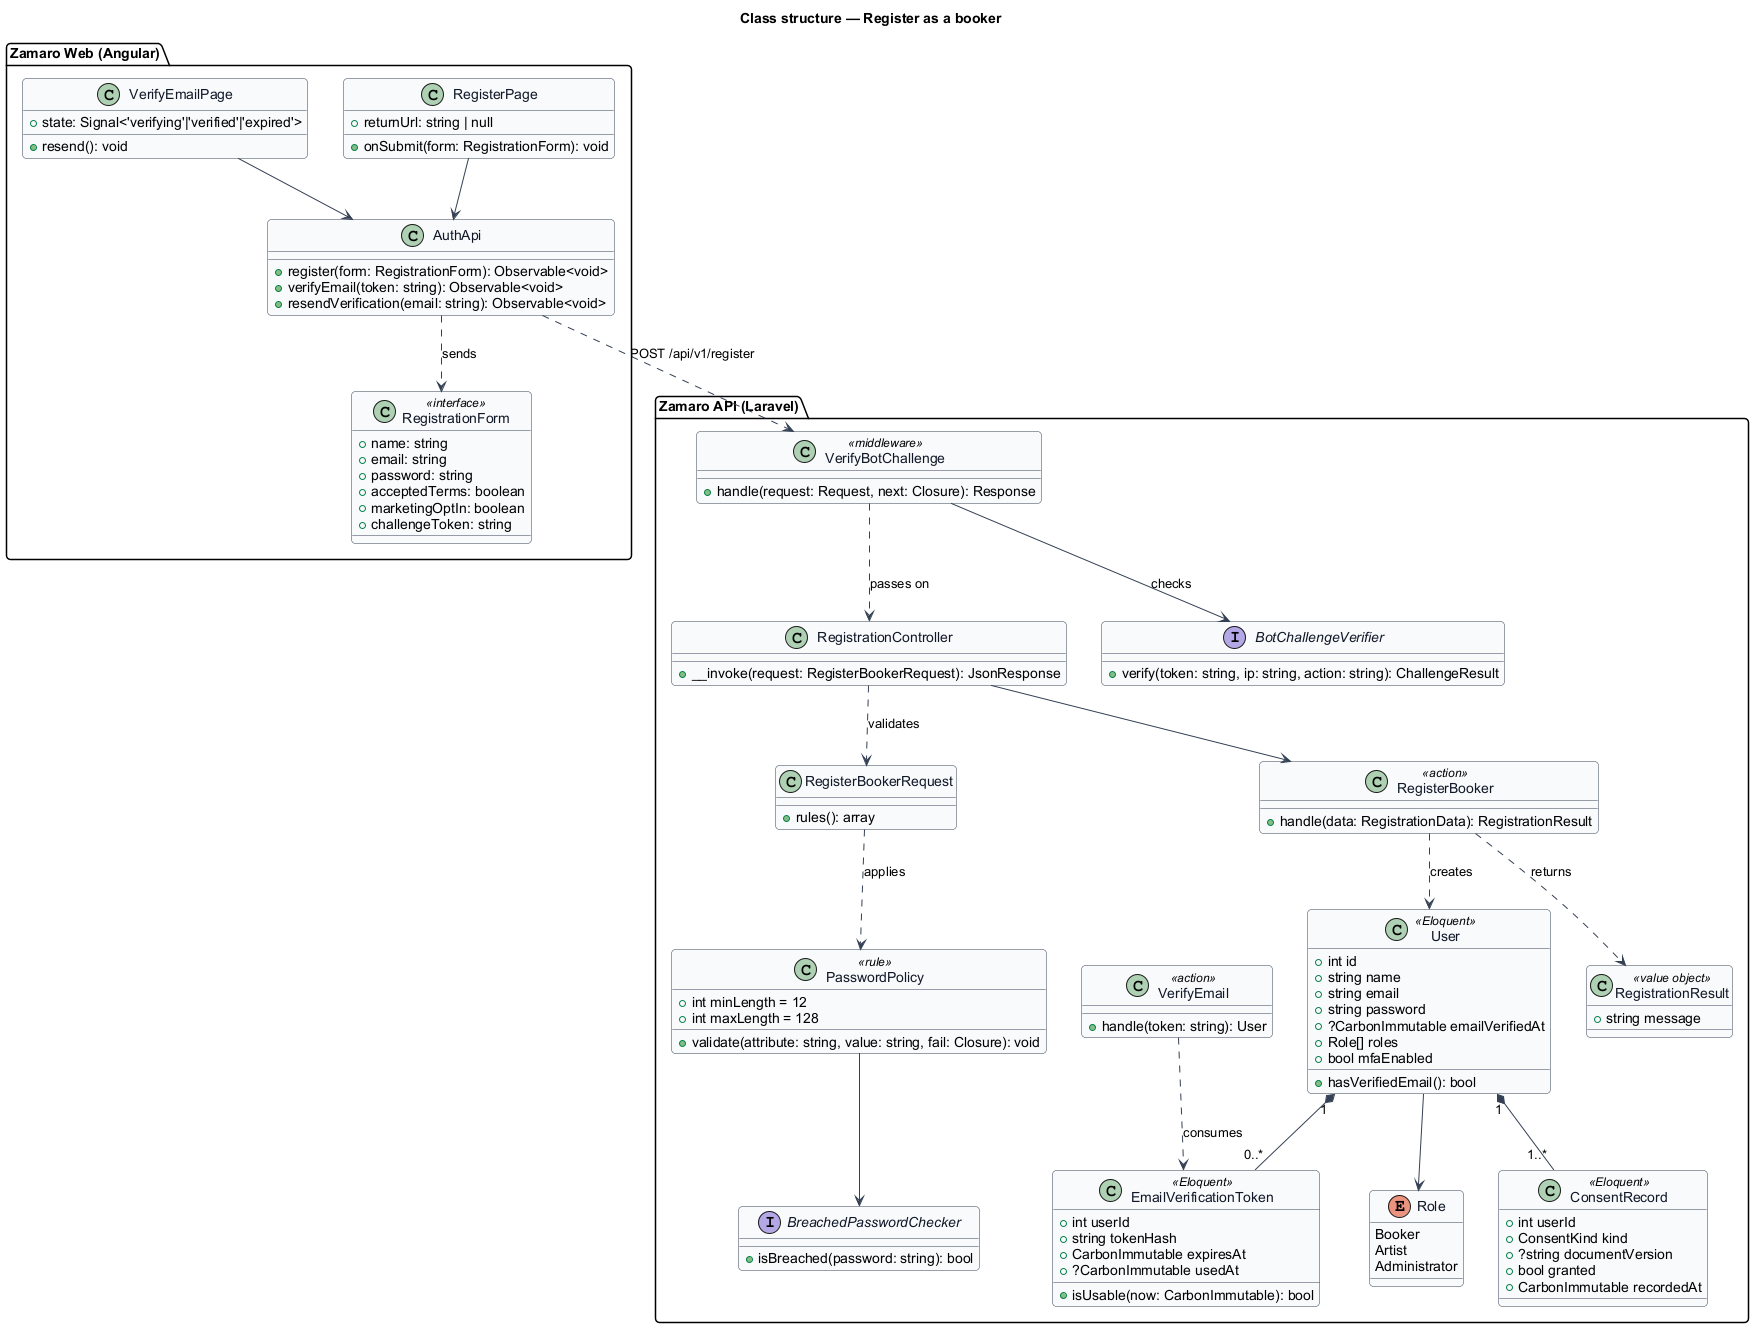
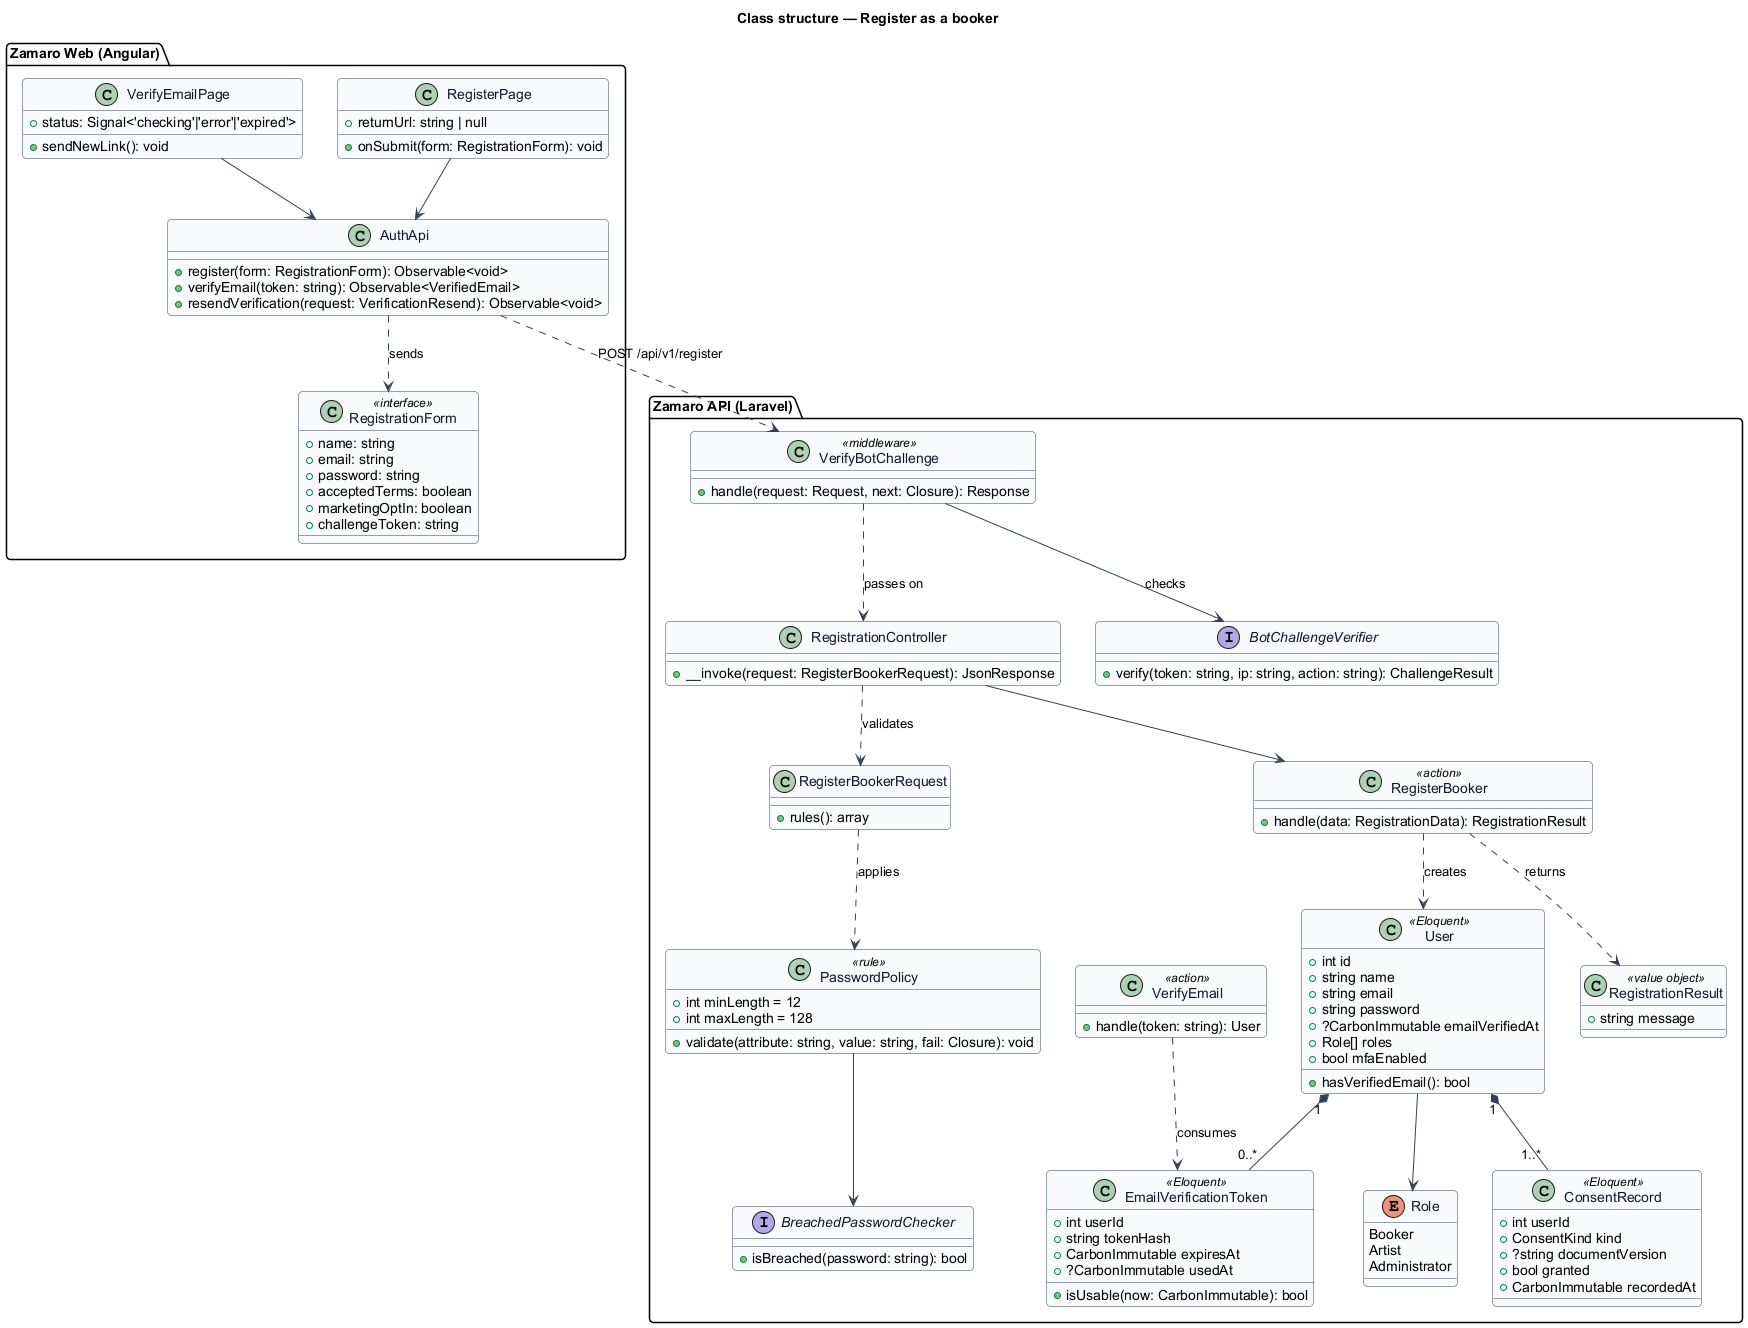
docs(accounts): S7 in the register-booker design, the alert, stamp and button CRDs and the M2 plan
- register-booker: "As built (M2 S7)": verify answers 200 with the name and signs no one
  in, one resend endpoint for three callers, revoked links kept as used, the banners.
- CRDs: zm-banner and zm-stamp built; the auth card's paper secondary buttons.
- AGENTS.md tree: pages/verify-email/.
- Plan: S7 Done with its criteria and changes, D6's resend limit.

diff --git a/docs/plans/m2-accounts-and-sessions.md b/docs/plans/m2-accounts-and-sessions.md
@@ -13,12 +13,43 @@
 | S4 | The request gate | Done | `c9d2d56` red tests, `1014b36` |
 | S5 | Register a booker, with consent | Done | `690da3b` red tests, `c6902ed` (ADR-0019) |
 | S6 | Email delivery rules and failed jobs | Done | `cd08f71` red tests, `dc02dc1` |
-| S7–S18 | | Not started | |
+| S7 | Verify the email address | Done | `fdc2b5b` red tests, `257d4c3` |
+| S8–S18 | | Not started | |
 
-**Checks at the last commit (S6, 2026-10-10):** 206 backend Feature tests pass with the contract
-assertions; `scramble:export --fail-on-unknown`, `i18n:check`, Pint and Larastan are clean;
-`npx playwright test` passes 228 tests on win32. S6 changed no frontend code or `zm-*` component, so
-the frontend checks, the Linux baselines and the perf run stand as S5 left them.
+**Checks at the last commit (S7, 2026-10-10):** 221 backend Feature tests pass with the contract
+assertions; `scramble:export --fail-on-unknown`, `i18n:check`, Pint and Larastan are clean; frontend
+lint, format and `ng build zamaro` are clean; `npx playwright test` passes 242 tests on win32 and
+`npm run test:docker -- visual a11y` passes 114 in the Linux image (no timeout on
+`discover-results-naomi`). The perf run against the S6 build flagged no row (Banner 180 ms and Stamp
+104 ms at 240 iterations are new).
+
+**S7 acceptance criteria (as tested):**
+- Given a link issued less than 24 hours ago, when it is opened, then the address is verified, the
+  token used, the answer is 200 with the name (private, no-store) and no one is signed in; the same
+  link again, one 24 hours and a minute old, or an unknown token gets the 410 `link-expired` problem
+  ("This link has expired") and verifies nothing.
+- Given Ruth signed in, unverified, when she asks for a new link, then 202 `{ accepted: true }`, one
+  working 24-hour link is emailed (back to Discover) and the earlier one gets 410. A guest gets one by
+  an expired or revoked link's token, or by the address just signed up with; an unknown address or
+  token, or a verified one, gets the same 202 and nothing is sent. The 4th in 15 minutes gets 429.
+- Given a guest who registers and opens the link from Mailpit, then Discover shows "Email verified"
+  with "Thanks, Ruth. You can send booking requests now." and "Dismiss verified notice", and the next
+  page has no banner. While the check is pending the card reads "Checking your link", `aria-busy`,
+  "Confirming your email…"; when the API fails, "We couldn’t check your link" with "Zamaro didn’t
+  answer. Your link still works; try again in a minute.", and Try again verifies.
+- Given a used link, then "This link has expired" with the Expired stamp, "Keep browsing artists" to
+  `/` and the fine print; "Send a new link" turns to "Sent" (disabled) with "A new link is on its way
+  to the email you signed up with. It works for 24 hours.", and that new link works.
+- Given an unverified booker signed in, then Discover and the 404 page show the persistent "Verify your
+  email" banner, "We sent a link to {email}. You need it to send requests.", "Resend email" and no
+  close button; pressing it shows "A new link is on its way to {email}. It works for 24 hours." and a
+  disabled "Sent", the email arrives, and a minute later "Resend email" is back. A verified booker sees
+  no banner.
+- Given "Check your email to finish signing up", then the fine print reads "Nothing after 5 minutes?
+  Check spam or junk, then resend.", and "Resend the email" sends a second email and shows "Sent" with
+  the status line.
+- Route state `verify-email-expired` (`/verify-email?token=e2e-unknown`) matches
+  `verify-email/expired.html` in both themes at every width, with no axe violations.
 
 **S6 acceptance criteria (as tested):**
 - Given the mail server refuses every send, when `VerifyEmailNotification` runs, then it is released
@@ -304,6 +335,29 @@ the frontend checks, the Linux baselines and the perf run stand as S5 left them.
   its links, so every visual baseline was rewritten on win32 and linux (`--update-snapshots=all`).
   One a11y run in the Linux image timed out once on `discover-results-naomi` (dark, XL) and passed alone
   and in the next full run; watch it as S1's Discover flake was watched.
+- **S7 — Verify answers 200 with the name, and signs no one in.** `POST /email/verify` returns
+  `{ data: { name } }` (the design said 204) so "Email verified" can say "Thanks, Naomi." on the page
+  the link returns to; a browser already signed in asks `/me` again. The token is checked only after
+  the browser takes over, so a link preview cannot use it up. A missing token (422) shows as expired.
+- **S7 — One resend endpoint for three callers.** `POST /email/verification-notification` serves the
+  signed-in banner (no body), the expired page (`token`: the link's owner) and the sign-up page's
+  "Resend the email" (`email`), always 202 `{ data: { accepted: true } }`. Earlier links are marked
+  used, not deleted, so a revoked link still finds its owner. D6's 3 in 15 minutes counts per account,
+  or per address for a guest; `api-e2e` raises it (`ZAMARO_RESEND_VERIFICATION_LIMIT`).
+- **S7 — Components.** `zm-banner` and `zm-stamp` were built from their CRDs (alert, stamp) with
+  `Banner.ts` and `Stamp.ts`; `zm-icon` gained `mail`. Inside the auth card, secondary buttons keep the
+  paper outline instead of the stage's (button CRD note; `button.scss` was already over its 4 kB
+  warning and grows by about 360 bytes). The checking state's inline spinner waits for `zm-spinner`.
+- **S7 — Copy without a mock.** "Confirming your email…" for a guest; the status lines after a resend
+  ("A new link is on its way to {email}. It works for 24 hours." on sign-up, "…to the email you signed
+  up with…" on the expired page); "Sent" stays a minute on the banner, the expired page and sign-up.
+- **S7 — e2e readiness.** `SignUpPage.open()` waits for focus in Full name (the app's own signal that
+  it has taken over): under load the old networkidle wait let a click land before hydration.
+  `VerifyEmailPage.openLink()` and Try again wait for the check's answer, and `waitForEmails()` polls
+  Mailpit for 15 s like `waitForEmail()`.
+- **S7 — `api-e2e` serves PHP as it is on disk.** Opcache is off for the CLI server, so a PHP edit
+  made during an e2e run changes the API under it (ADR-0019 says it keeps its code; only
+  `worker-e2e` does). Don't edit PHP while the suite runs.
 - **S6 — `failed_jobs` already existed** with the `uuid` column and the `database-uuids` driver from
   Laravel's skeleton, so no migration was needed. Horizon's supervisors keep `tries => 1`, which only
   applies to a job that sets none; `RetriesWithBackoff` sets 6 on every job and email.
@@ -415,7 +469,7 @@ shown and are recorded in the slice's ADR or the design.
 | D3 | Bot provider unreachable (limit-request-rates) | Fail closed, with the usual challenge message | OK (accepted default, 2026-10-10); built in S5 |
 | D4 | Breached-password vendor (sign-in-and-recover-access) | `Contracts/BreachedPasswordChecker`; the fake rejects a configured list; the HIBP range adapter in M10 | OK (accepted default, 2026-10-10); built in S5 (`zamaro.fakes.breached_passwords`) |
 | D5 | TOTP library (sign-in-and-recover-access) | `pragmarx/google2fa` with `bacon/bacon-qr-code` (SVG), behind `Services/Accounts/TotpVerifier` | |
-| D6 | Limits on register, resend, forgot and reset (the designs only say "rate-limited") | Register 10/h per IP; resend 3/15 min per user; forgot 5/h per IP and per email; reset 30/min per IP | OK (accepted default, 2026-10-10); register built in S5 |
+| D6 | Limits on register, resend, forgot and reset (the designs only say "rate-limited") | Register 10/h per IP; resend 3/15 min per user; forgot 5/h per IP and per email; reset 30/min per IP | OK (accepted default, 2026-10-10); register built in S5, resend in S7 (per address for a guest) |
 | D7 | Signed-in `api` limit (limit-request-rates) | 300/min per user; anonymous stays at 120/min per IP | OK (accepted default, 2026-10-10); built in S4 |
 | D8 | Toast after a second 419 (manage-sessions-and-csrf; no mock) | "That didn't go through. Reload the page and try again." Error toast, stays until dismissed | OK (accepted default, 2026-10-10); built in S3 as kind "Failed", title "That didn’t go through.", text "Reload the page and try again." |
 | D9 | "Your session ended" line before drafts exist (M5) | "Sign in again to carry on. Nothing you typed is lost." | OK (accepted default, 2026-10-10); built in S3 |

diff --git a/docs/detailed-designs/accounts/register-booker/README.md b/docs/detailed-designs/accounts/register-booker/README.md
@@ -146,6 +146,35 @@ email" button and the "Nothing after 5 minutes?" line join with resend (S7); "Wr
 address? Start again" returns to the form with every value kept. The card's "Apply as
 an artist" fine print joins with the application page (M3, `/artists/apply`).
 
+**As built (M2 S7).**
+
+- `POST /api/v1/email/verify` answers 200 with `{ "data": { "name": … } }`, not 204, so the
+  page can thank the person by name on the page it returns to: "Email verified" with "Thanks,
+  Naomi. You can send booking requests now.", dismissible ("Dismiss verified notice"), for one
+  page. Verifying signs no one in; a person already signed in on that browser is asked for again
+  (`/me`), so their banner clears. A used, more than 24-hour-old or unknown token is the 410
+  `link-expired` problem ("This link has expired"); a request with no token is a 422, which the
+  page shows as expired too.
+- The page checks the token after the browser has taken over (`afterNextRender`), never in the
+  server render, so a link preview cannot use it up. It shows "Checking your link" with
+  "Confirming {email}…" when the person is signed in, else "Confirming your email…" (no mock
+  covers a guest), and "We couldn’t check your link" with Try again when the API does not
+  answer. The mock's inline spinner waits for `zm-spinner`.
+- `POST /api/v1/email/verification-notification` takes no body from a signed-in booker, `token`
+  from an expired link's page (the new link goes to that link's owner) or `email` from the
+  sign-up page's "Check your email" state; it always answers 202 with
+  `{ "data": { "accepted": true } }`, and sends nothing to an unknown or already verified
+  address. Earlier links are marked used rather than deleted, so a revoked link still names its
+  owner for the next resend. 3 in 15 minutes per account, or per address for a guest
+  (`resend-verification`, M2 D6), raised on the e2e API.
+- The persistent "Verify your email" banner is the shell's, under the top bar, on every page while
+  the signed-in person's address is unverified: "We sent a link to {email}. You need it to send
+  requests." with "Resend email"; after a resend, "A new link is on its way to {email}. It works
+  for 24 hours." with "Sent", disabled for a minute. The expired page and the sign-up page's
+  "Resend the email" do the same, with a status line ("A new link is on its way to the email you
+  signed up with…", no mock) and the "Nothing after 5 minutes?" fine print.
+- `EnsureEmailIsVerified` and `pages/book/unverified` wait for the booking request (M5, L2-022.4).
+
 ## Requirements
 
 The feature realises the following level-2 (L2) requirements, quoted from

diff --git a/docs/specs/components/alert.md b/docs/specs/components/alert.md
@@ -4,7 +4,7 @@
 |---|---|
 | Selector | `zm-alert`, `zm-banner` |
 | Library path | `frontend/projects/components/src/lib/alert/` |
-| Status | built (`zm-alert`); `zm-banner` planned |
+| Status | built (`zm-alert`, `zm-banner`) |
 | Traces to | L2-022, L2-037, L2-038, L2-057, L2-067, L2-077, L2-086, L2-096, L2-100, L2-101, L2-102, L2-103, L2-104, L2-106, L2-107, L2-108, L2-111, L2-114 |
 | Design system | [`alert.html`](../../design-system/components/alert.html) |
 | Source mocks | [`pages/discover/error`](../../mocks/pages/discover/error.html), [`pages/discover/limited`](../../mocks/pages/discover/limited.html), [`pages/artist/error`](../../mocks/pages/artist/error.html), [`pages/book/duplicate`](../../mocks/pages/book/duplicate.html), [`dialogs/pay-deposit/failed`](../../mocks/dialogs/pay-deposit/failed.html), [`dialogs/block-dates/warning`](../../mocks/dialogs/block-dates/warning.html), [`pages/admin-booking/held`](../../mocks/pages/admin-booking/held.html), [`notifications/system-banner/*`](../../mocks/notifications/system-banner/info.html), [`pages/offline/default`](../../mocks/pages/offline/default.html), and every error, failed and success screen in Usage |
@@ -518,6 +518,11 @@ lift, which reduced motion removes.
 - **AC-30** Given the `Alert`, `AlertCompact` and `Banner` scenarios, when the perf test runs against the base branch with `--fail-on-regression`, then none is flagged as a possible regression and each renders in its tuned window. (L2-086)
 
 ## Implementation notes
+
+**As built in M2 (S7):** `zm-banner` (`banner.ts`, class `Banner`) with every input and output above,
+its `Banner.ts` perf scenario ("Verify your email" with "Resend email"), and the shell's "Verify your
+email" and "Email verified" banners. A disabled button action reads in `--color-fg-muted`. The banner
+logs no dev-mode error for `dismissible` with `persistent`; the close button is simply not rendered.
 
 **As built in M2 (S1):** `compact` (`.alert--compact`: `--space-4` padding, `--text-h4` title and a
 20 px icon), for the sign-in card's "We couldn’t sign you in".

diff --git a/docs/specs/components/stamp.md b/docs/specs/components/stamp.md
@@ -4,7 +4,7 @@
 |---|---|
 | Selector | `zm-stamp` |
 | Library path | `frontend/projects/components/src/lib/stamp/` |
-| Status | planned |
+| Status | built (M2 S7) |
 | Traces to | L2-022, L2-029, L2-033, L2-034, L2-047, L2-068, L2-086, L2-096, L2-100, L2-101, L2-102, L2-103, L2-104, L2-105, L2-111 |
 | Design system | [`stamp.html`](../../design-system/components/stamp.html) |
 | Source mocks | [`pages/bookings/default`](../../mocks/pages/bookings/default.html), [`pages/bookings/past`](../../mocks/pages/bookings/past.html), [`pages/booking-detail/default`](../../mocks/pages/booking-detail/default.html) and its other states, [`pages/requests/default`](../../mocks/pages/requests/default.html), [`pages/request-detail/default`](../../mocks/pages/request-detail/default.html), [`pages/admin-bookings/default`](../../mocks/pages/admin-bookings/default.html), [`pages/apply/success`](../../mocks/pages/apply/success.html), [`pages/verify-email/expired`](../../mocks/pages/verify-email/expired.html), and every other screen in Usage |
@@ -382,7 +382,11 @@ None. The tilt is static and nothing animates when the status changes, so
 
 ## Implementation notes
 
-The stamp is planned. To build it:
+**As built in M2 (S7):** `stamp.ts` as below, first used for the expired verification link's large
+"Expired" stamp; the `Stamp` scenario renders Luz Viva's "Accepted". `BookingList.ts` and
+`RequestsInboxRow.ts` come with their screens (M5, M4).
+
+The plan it was built to:
 
 - Folder `frontend/projects/components/src/lib/stamp/`, file `stamp.ts`, class
   `Stamp`, selector `zm-stamp`; export `Stamp` and `StampStatus` from

diff --git a/AGENTS.md b/AGENTS.md
@@ -106,7 +106,7 @@ zamaro/
 │   │   │       │   ├── shell/     # header, footer, navigation menu, theme switch
 │   │   │       │   ├── pages/     # routed screens, one folder per docs/mocks/pages entry
 │   │   │       │   │   ├── discover/  artist/  book/  saved/  bookings/  booking-detail/
-│   │   │       │   │   ├── sign-in/  sign-up/  forgot-password/  reset-password/  account/
+│   │   │       │   │   ├── sign-in/  sign-up/  verify-email/  forgot-password/  reset-password/  account/
 │   │   │       │   │   ├── apply/  dashboard/  requests/  request-detail/  availability/
 │   │   │       │   │   ├── edit-profile/  earnings/
 │   │   │       │   │   └── not-found/  server-error/  offline/

diff --git a/docs/specs/components/button.md b/docs/specs/components/button.md
@@ -482,6 +482,11 @@ as a static ring).
 
 ## Implementation notes
 
+**As built in M2 (S7):** inside the auth card (`.auth-card`, paper on the stage) secondary buttons
+keep the paper outline instead of the stage's light outline, as `pages/verify-email/expired` shows
+"Keep browsing artists". The rule adds about 360 bytes to `button.scss`, which was already over the
+4 kB component-style warning.
+
 The library has `zm-button`, `zm-button-link` and `zm-button-anchor`. To meet
 this CRD:
 
